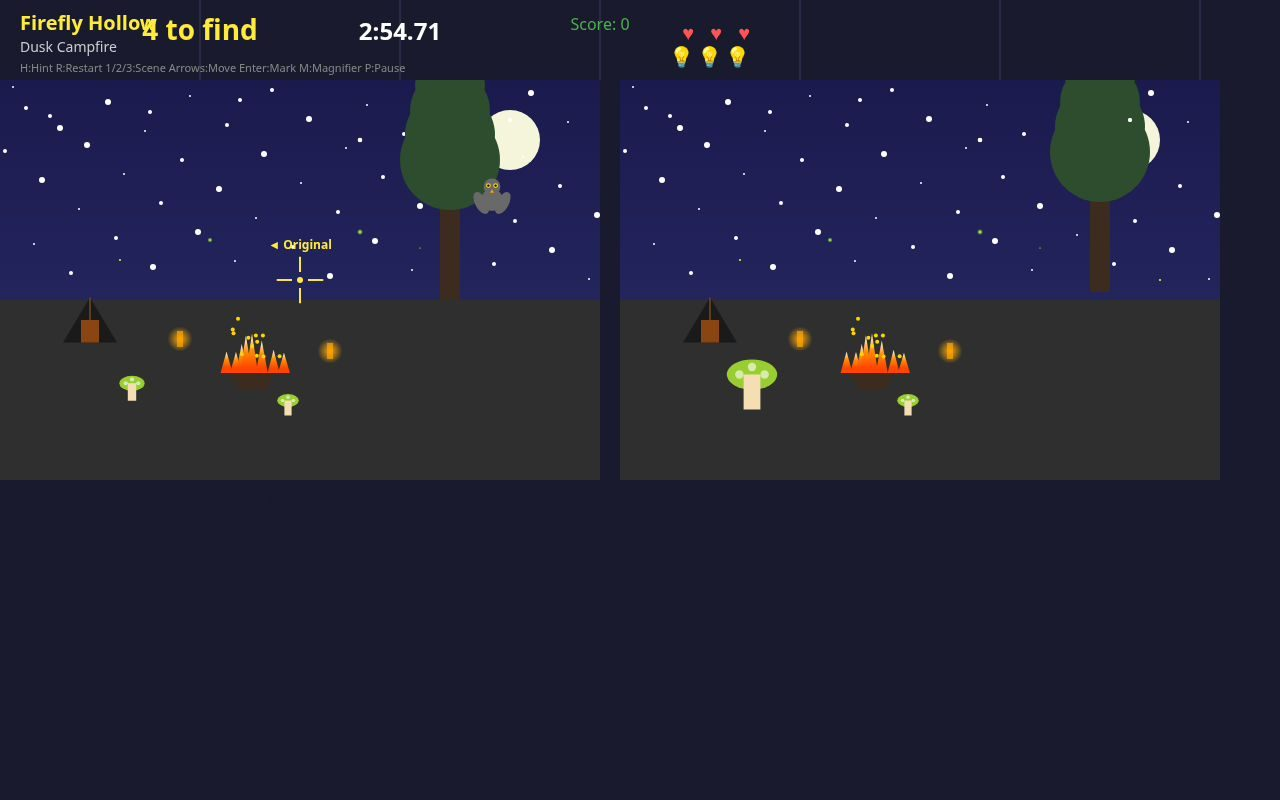
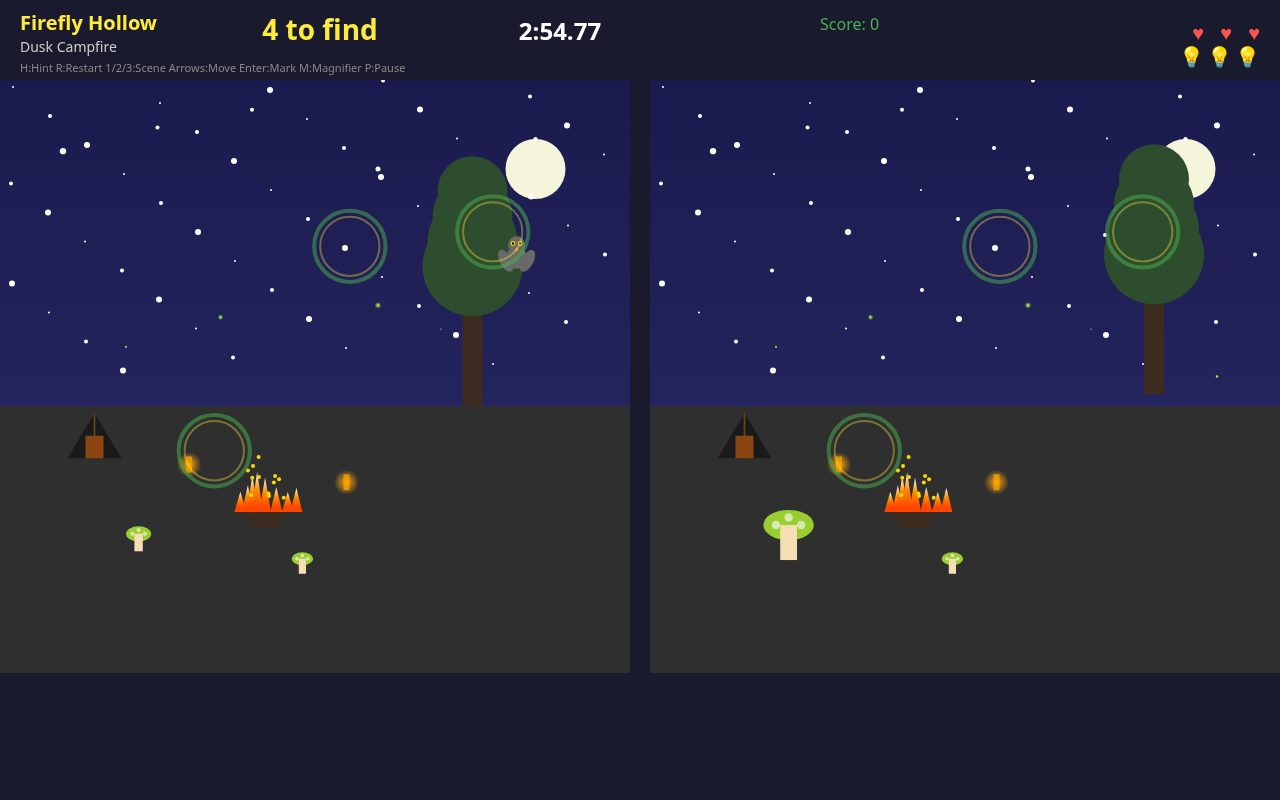
Polish: fix rings, HUD overlap, dead space, reticle in screenshots; re-take screenshots

diff --git a/game/src/render.js b/game/src/render.js
@@ -737,16 +737,6 @@ class Renderer {
     this.hudCtx.fillStyle = '#1a1a2e';
     this.hudCtx.fillRect(0, 0, w, h);
 
-    // Dividers
-    this.hudCtx.strokeStyle = '#3a3a5e';
-    this.hudCtx.lineWidth = 1;
-    for (let x = 200; x < w; x += 200) {
-      this.hudCtx.beginPath();
-      this.hudCtx.moveTo(x, 0);
-      this.hudCtx.lineTo(x, h);
-      this.hudCtx.stroke();
-    }
-
     // Title
     this.hudCtx.font = 'bold 20px system-ui, sans-serif';
     this.hudCtx.fillStyle = '#ffeb3b';
@@ -758,44 +748,45 @@ class Renderer {
     this.hudCtx.fillStyle = '#ccc';
     this.hudCtx.fillText(SCENES[sceneIndex].name, 20, 52);
 
-    // Counter: N remaining
+    // Counter: N remaining (centered at x=320)
     const remaining = 7 - found.length;
     this.hudCtx.font = 'bold 28px system-ui, sans-serif';
     this.hudCtx.fillStyle = '#ffeb3b';
     this.hudCtx.textAlign = 'center';
-    this.hudCtx.fillText(`${remaining} to find`, 200, 40);
+    this.hudCtx.fillText(`${remaining} to find`, 320, 40);
 
-    // Timer
+    // Timer (centered at x=560)
     const mins = Math.floor(timer / 60000);
     const secs = Math.floor((timer % 60000) / 1000);
     const ms = Math.floor((timer % 1000) / 10);
     this.hudCtx.font = 'bold 24px system-ui, sans-serif';
     this.hudCtx.fillStyle = timer < 30000 ? '#ff5252' : '#fff';
-    this.hudCtx.fillText(`${mins}:${secs.toString().padStart(2,'0')}.${ms.toString().padStart(2,'0')}`, 400, 40);
+    this.hudCtx.fillText(`${mins}:${secs.toString().padStart(2,'0')}.${ms.toString().padStart(2,'0')}`, 560, 40);
 
-    // Score
+    // Score (at x=820)
     this.hudCtx.font = '16px system-ui, sans-serif';
     this.hudCtx.fillStyle = '#4caf50';
-    this.hudCtx.fillText(`Score: ${score}`, 600, 30);
+    this.hudCtx.textAlign = 'left';
+    this.hudCtx.fillText(`Score: ${score}`, 820, 30);
 
     // Streak
     if (streak > 0) {
       this.hudCtx.fillStyle = '#ff9800';
-      this.hudCtx.fillText(`Streak: ${streak}x`, 600, 52);
+      this.hudCtx.fillText(`Streak: ${streak}x`, 820, 52);
     }
 
-    // Hearts
+    // Hearts right-aligned ending at w-20
     this.hudCtx.font = '20px system-ui, sans-serif';
     this.hudCtx.textAlign = 'right';
     for (let i = 0; i < 3; i++) {
-      const x = 750 - i * 28;
+      const x = w - 20 - i * 28;
       this.hudCtx.fillStyle = i < hearts ? '#ff5252' : '#444';
       this.hudCtx.fillText('♥', x, 40);
     }
 
-    // Hints
+    // Hints row right-aligned ending at w-20 on second line
     for (let i = 0; i < 3; i++) {
-      const x = 750 - i * 28;
+      const x = w - 20 - i * 28;
       this.hudCtx.fillStyle = i < hints ? '#ffeb3b' : '#444';
       this.hudCtx.fillText('💡', x, 64);
     }

diff --git a/game/src/main.js b/game/src/main.js
@@ -248,13 +248,15 @@ document.addEventListener('DOMContentLoaded', () => {
   const canvas = document.getElementById('game');
   const hudCanvas = document.getElementById('hud');
 
-  // Set canvas sizes
-  const totalW = 600 * 2 + 20;
-  const totalH = 400 + 80 + 40; // canvas + HUD + labels
+  // Compute canvas sizes from window
+  CANVAS_W = Math.floor((window.innerWidth - PANEL_GAP) / 2);
+  CANVAS_H = window.innerHeight - HUD_HEIGHT - 40;
+  const totalW = CANVAS_W * 2 + PANEL_GAP;
+  const totalH = CANVAS_H + HUD_HEIGHT + 40;
   canvas.width = totalW;
   canvas.height = totalH;
   hudCanvas.width = totalW;
-  hudCanvas.height = 80;
+  hudCanvas.height = HUD_HEIGHT;
 
   gameInstance = new Game(canvas, hudCanvas);
   gameInstance.start();

diff --git a/game/src/world.js b/game/src/world.js
@@ -88,13 +88,13 @@ class World {
       }
     }
 
-    // Expand zone bounds slightly for easier clicking
+    // Expand zone bounds slightly for easier clicking (normalized deltas)
     if (zone.bounds) {
       zone.bounds = {
-        x: zone.bounds.x - 12,
-        y: zone.bounds.y - 12,
-        w: zone.bounds.w + 24,
-        h: zone.bounds.h + 24,
+        x: zone.bounds.x - 0.02,
+        y: zone.bounds.y - 0.02,
+        w: zone.bounds.w + 0.04,
+        h: zone.bounds.h + 0.04,
       };
     }
 

diff --git a/game/src/input.js b/game/src/input.js
@@ -179,6 +179,12 @@ class InputHandler {
   drawReticle(ctx) {
     if (this.game.state.gameState !== 'play') return;
 
+    // Don't draw reticle in screenshot mode (?shot= or ?scene= + ?found=)
+    const params = new URLSearchParams(window.location.search);
+    if (params.has('shot') || (params.has('scene') && params.has('found'))) {
+      return;
+    }
+
     const panelW = CANVAS_W;
     const panelH = CANVAS_H;
     const topY = HUD_HEIGHT;

diff --git a/game/src/config.js b/game/src/config.js
@@ -162,8 +162,8 @@ const SCENES = [
 ];
 
 // Shared constants
-const CANVAS_W = 600;
-const CANVAS_H = 400;
+let CANVAS_W = 600;
+let CANVAS_H = 400;
 const PANEL_GAP = 20;
 const HUD_HEIGHT = 80;
 const RING_COLOR = '#ffeb3b'; // bright yellow
